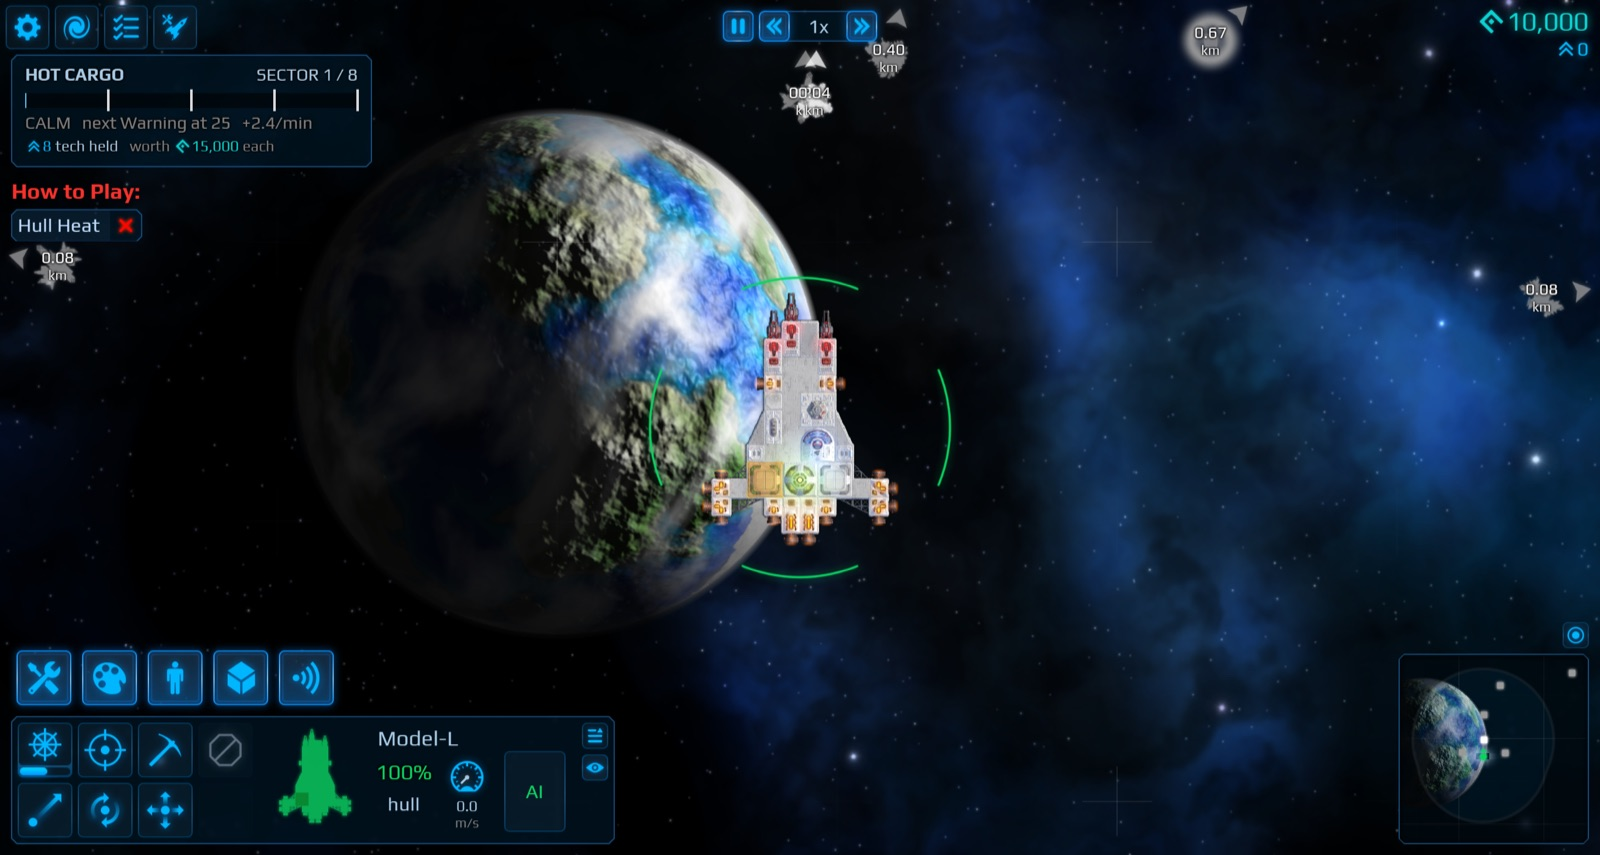
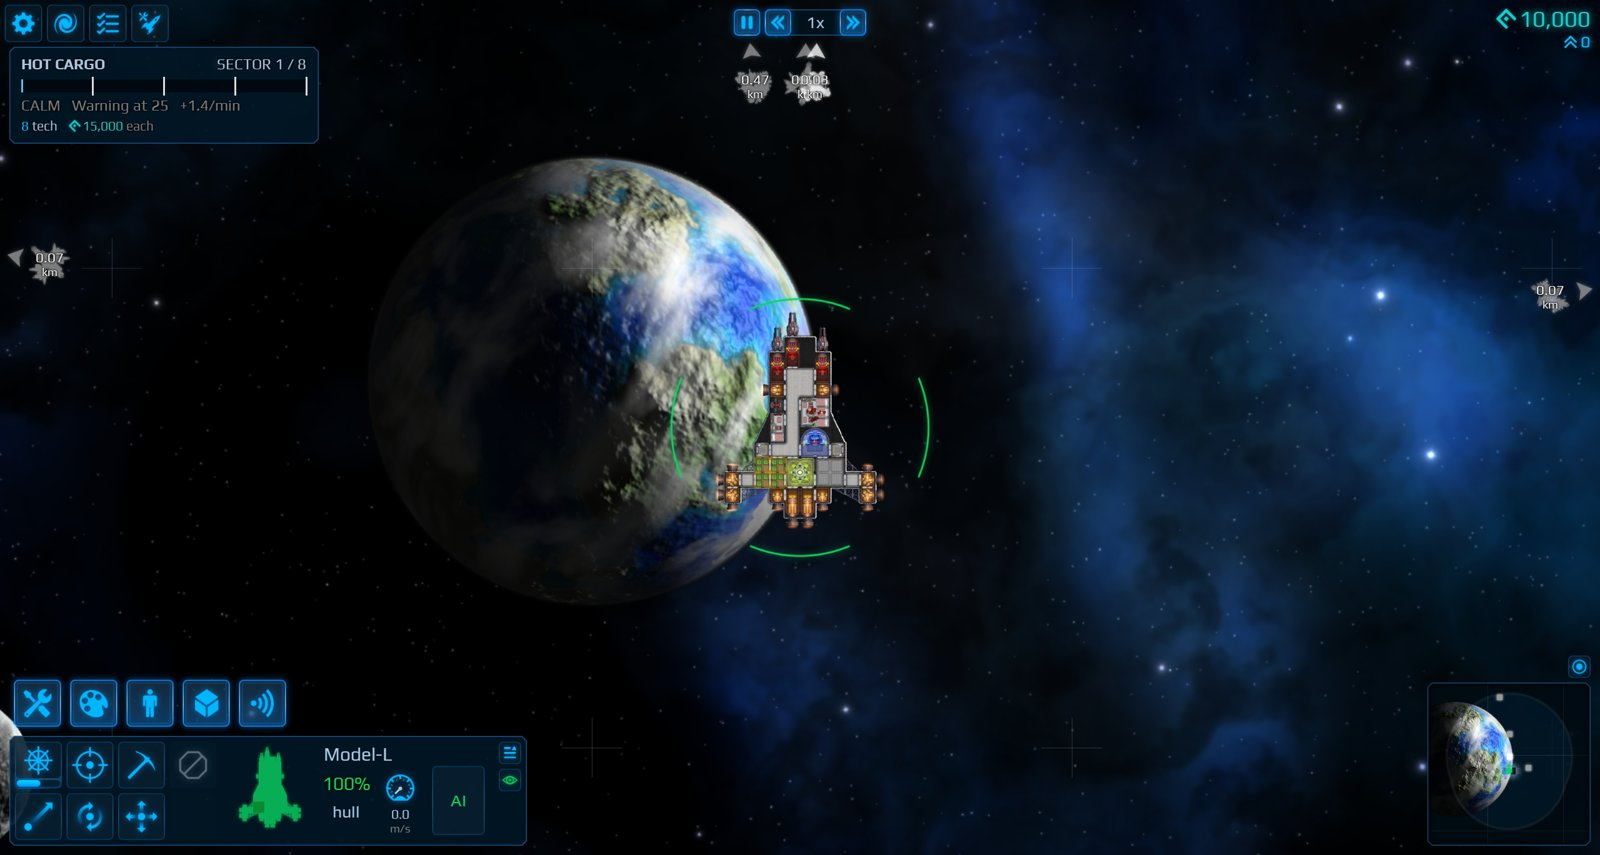
docs(shipai): screenshots and plan state

diff --git a/PLAN.md b/PLAN.md
@@ -15,9 +15,10 @@ Paused for the feature freeze. Resume from this list.
 9. [x] Autotest `shipai-hotcargo` passes.
 
 ## Left
-10. [ ] Run `shipai-editor` and `shipai-calls` (written, never ran because of slot and link failures).
-11. [ ] Rerun `shipai-basic`, `shipai-save`, co-op `mp:shipai` against the new code.
+10. [x] `shipai-editor` and `shipai-calls` pass (Mac sim). The editor test now expects the weapon group (`FocusTarget=0`).
+11. [x] `shipai-basic`, `shipai-save` pass (Mac sim); co-op `mp:shipai` passes (PC).
 12. [x] Extend the co-op `shipai` test with a term edit (apply to selected stays in the single-player editor test: co-op tests have one ship per player).
-13. [ ] Screenshots: `tests/screens/shipai.txt` (main slot, under the lock); add them to the PR with `gh-pr-images`.
-14. [ ] Check in a game that +90° turns the left side to the target (spec 415).
-15. [ ] Merge origin/main again, delete PLAN.md, final push.
+13. [x] Screenshots: `docs/screenshots/shipai-*.jpg`, in the PR.
+14. [x] Facing checked in a game: it turned the nose, not the left side. Fixed: Rotation counts `Ship.FlightDirection`. Screenshot `shipai-face-left.jpg`.
+15. [ ] After the heat stages PR (3 stages) merges: merge origin/main, check the `HeatStageAtLeast=2` + `heat 55` test, delete PLAN.md, final push.
+16. [x] Heat stage choices and the input limit come from `Heat.Stages` (spec 413).
